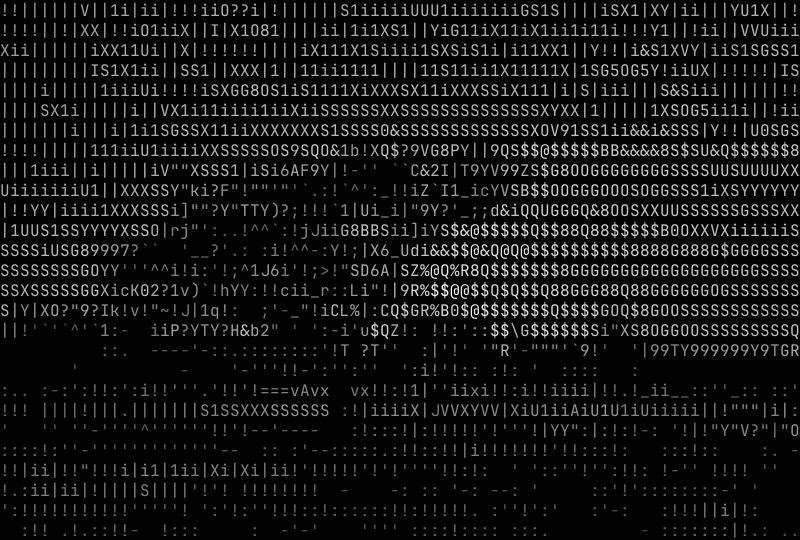
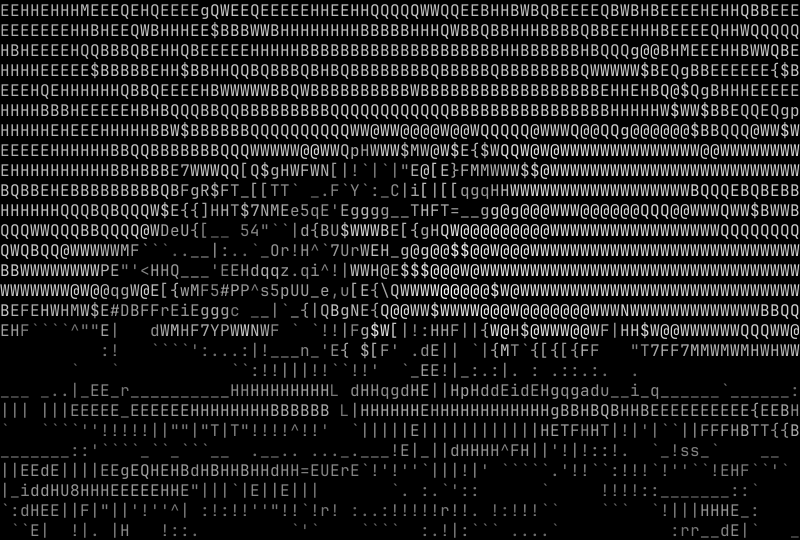
docs: refresh README for current defaults
Add the Rust edition requirement, link the CI workflow, regenerate the landscape examples at width 80, and fix the compare-grid default label.

diff --git a/README.md b/README.md
@@ -2,6 +2,10 @@
 
 将图片转换为黑底、等宽字符画。字符按字体的 32 维（4x8 子块）形状向量匹配，并用有符号 DoG 锐化和 Sobel 方向特征保留轮廓。
 
+## 环境要求
+
+Rust 1.85 或更高版本（edition 2024）。
+
 ## 构建与使用
 
 ```bash
@@ -55,13 +59,13 @@ cargo build --release
 | --- | --- | --- | --- |
 | ![原图](docs/landscape-original.jpg) | ![标准 ASCII](docs/landscape-ascii.png) | ![彩色](docs/landscape-color.png) | ![盲文](docs/landscape-braille.png) |
 
-盲文示例使用 `--braille --dither`。
+彩色示例使用 `--color`，盲文示例使用 `--braille --dither`。
 
 ## 开发
 
 `scripts/compare-grid.sh photo.jpg` 生成 `--dir-crunch` 与 `--edge-weight` 的 3x3 拼图，输出 `output/compare/<图片名>/grid.png`。拼图需要 Python 3 与 Pillow，仅用于开发比较。
 
-CI 在推送和拉取请求时运行 `cargo fmt --check`、`cargo clippy --all-targets --all-features -- -D warnings`、`cargo test --all-targets --all-features`，并构建 Linux x86_64、macOS arm64、macOS x86_64、Windows x86_64 四个平台的二进制。工作流尚未在 GitHub 云端执行。
+CI 在推送和拉取请求时运行 `cargo fmt --check`、`cargo clippy --all-targets --all-features -- -D warnings`、`cargo test --all-targets --all-features`，并构建 Linux x86_64、macOS arm64、macOS x86_64、Windows x86_64 四个平台的二进制。工作流定义见 `.github/workflows/ci.yml`。
 
 ## 许可
 
